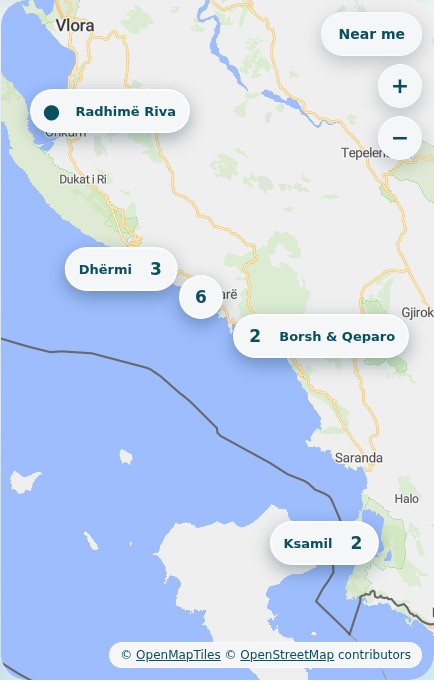
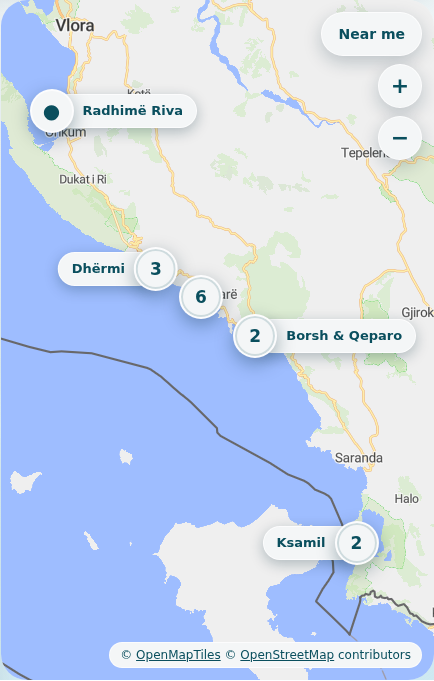
Prototype #1134: give variant D its design pass
The first cut of D wore a plain text tail on the map-chrome disc and a
bare "‹ 1 of 3 here ›" row in the card. This pass designs both surfaces
in the app's own language, and nothing else changes:

- The chip is a coin and a label. The coin sits exactly on the venue in
  the solid map-chrome skin; a crowd's coin wears an inner rim so the
  silhouette reads as a stack before the numeral does. The label is a
  lozenge tucked behind the coin, semibold, and it declutters as before.
  Open, the coin flips to teal and reads `1/3` while the label names the
  venue on show.
- The card's stepper is a glass pill on the card track: the app's own
  dot rail (18 px active pill in the accent ink) between two SVG
  chevrons, a `k / n` count past six, and a polite live region that
  announces each step with the venue's name.

The card now takes 33 % of the phone map with a crowd open (was 35 %);
the README, screenshots and issue comment carry the new numbers.

Claude-Session: https://claude.ai/code/session_01TBM8tZvVi9kUa5d8NNQLEW

diff --git a/frontend/src/app/pages/home/prototype-1134/variant-named-cycle.ts b/frontend/src/app/pages/home/prototype-1134/variant-named-cycle.ts
@@ -37,8 +37,9 @@ export interface CrowdStack {
   readonly nextId: string;
 }
 
-/** The tail's own text metrics at `text-[13px] font-bold`; jsdom has no canvas, so a fallback. */
-const TAIL_PADDING = 14;
+/** The tail past the coin's edge: 8 px of tuck, 13 px of end padding; jsdom has no canvas, so a fallback. */
+const TAIL_PADDING = 21;
+const TAIL_TEXT_MAX = 137;
 const FALLBACK_CHAR_PX = 7.4;
 
 /**
@@ -70,7 +71,7 @@ const FALLBACK_CHAR_PX = 7.4;
         <button
           type="button"
           appTouchTarget
-          class="pointer-events-auto absolute inline-flex h-11 touch-manipulation items-center rounded-full border-2 border-riv-solid-btn-border bg-riv-solid-btn-fill text-riv-solid-btn-ink shadow-[0_6px_18px_rgba(7,42,58,0.35)] aria-expanded:bg-riv-solid-btn-ink aria-expanded:text-riv-solid-btn-fill"
+          class="group pointer-events-auto absolute inline-flex h-11 touch-manipulation items-center rounded-full"
           [class.flex-row-reverse]="slot.chip.tail === 'left'"
           [style.left.px]="slot.chip.cluster.x"
           [style.top.px]="slot.chip.cluster.y"
@@ -79,20 +80,37 @@ const FALLBACK_CHAR_PX = 7.4;
           [attr.aria-expanded]="slot.chip.current !== null"
           (click)="chosen.emit(slot.chip.next.pin.id)"
         >
+          <!-- The coin sits exactly on the venue; a crowd's coin wears a rim, a stack's silhouette. -->
           <span
-            class="inline-flex size-10 shrink-0 items-center justify-center text-[17px] leading-none font-bold tabular-nums"
+            class="relative z-[1] inline-flex size-11 shrink-0 items-center justify-center rounded-full border-2 border-riv-solid-btn-border bg-riv-solid-btn-fill text-riv-solid-btn-ink shadow-[0_6px_18px_rgba(7,42,58,0.35)] group-hover:bg-riv-solid-btn-hover group-aria-expanded:border-riv-solid-btn-fill group-aria-expanded:bg-riv-solid-btn-ink group-aria-expanded:text-riv-solid-btn-fill motion-safe:[transition:background-color_0.15s_ease,color_0.15s_ease]"
+            [class]="
+              slot.chip.cluster.members.length > 1
+                ? 'inset-ring-2 inset-ring-riv-solid-btn-ink/16 group-aria-expanded:inset-ring-riv-solid-btn-fill/25'
+                : ''
+            "
             aria-hidden="true"
           >
-            @if (slot.chip.cluster.members.length > 1) {
-              {{ slot.chip.cluster.members.length }}
+            @if (slot.chip.current !== null) {
+              <span class="text-[13px] leading-none font-bold tabular-nums"
+                >{{ slot.chip.index + 1 }}<span class="opacity-55">/</span
+                >{{ slot.chip.cluster.members.length }}</span
+              >
+            } @else if (slot.chip.cluster.members.length > 1) {
+              <span class="text-[17px] leading-none font-bold tabular-nums">{{
+                slot.chip.cluster.members.length
+              }}</span>
             } @else {
-              <span class="text-[20px]">&#x25cf;</span>
+              <span class="text-[20px] leading-none">&#x25cf;</span>
             }
           </span>
           @if (slot.chip.tail !== 'none') {
             <span
-              class="max-w-[160px] truncate text-[13px] leading-none font-bold"
-              [class]="slot.chip.tail === 'left' ? 'pr-1 pl-3' : 'pr-3 pl-1'"
+              class="h-[34px] max-w-[180px] truncate rounded-full border border-riv-solid-btn-border bg-riv-solid-btn-fill text-[13px] leading-[32px] font-semibold text-riv-solid-btn-ink shadow-[0_4px_14px_rgba(7,42,58,0.28)] group-hover:bg-riv-solid-btn-hover group-aria-expanded:font-bold motion-safe:[transition:background-color_0.15s_ease]"
+              [class]="
+                slot.chip.tail === 'left'
+                  ? '-mr-[22px] pr-[30px] pl-[13px]'
+                  : '-ml-[22px] pr-[13px] pl-[30px]'
+              "
               aria-hidden="true"
               >{{ slot.chip.text }}</span
             >
@@ -102,7 +120,7 @@ const FALLBACK_CHAR_PX = 7.4;
         <button
           type="button"
           appTouchTarget
-          class="pointer-events-none absolute inline-flex size-11 items-center justify-center rounded-full border-2 border-riv-solid-btn-fill bg-riv-solid-btn-ink text-[13px] leading-none font-bold text-riv-solid-btn-fill opacity-0 focus-visible:z-[1] focus-visible:opacity-100"
+          class="pointer-events-none absolute inline-flex size-11 items-center justify-center rounded-full border-2 border-riv-solid-btn-fill bg-riv-solid-btn-ink text-[13px] leading-none font-bold text-riv-solid-btn-fill opacity-0 inset-ring-2 inset-ring-riv-solid-btn-fill/25 focus-visible:z-[2] focus-visible:opacity-100"
           [style.left.px]="slot.chip.cluster.x"
           [style.top.px]="slot.chip.cluster.y"
           [style.translate]="'-50% -50%'"
@@ -265,9 +283,9 @@ function tailWidth(text: string): number {
     measurer = globalThis.document?.createElement('canvas').getContext('2d') ?? null;
     if (measurer) {
       const family = getComputedStyle(document.body).fontFamily || 'sans-serif';
-      measurer.font = `700 13px ${family}`;
+      measurer.font = `600 13px ${family}`;
     }
   }
   const glyphs = measurer ? measurer.measureText(text).width : text.length * FALLBACK_CHAR_PX;
-  return Math.min(160, glyphs) + TAIL_PADDING;
+  return Math.min(TAIL_TEXT_MAX, glyphs) + TAIL_PADDING;
 }

diff --git a/frontend/src/app/pages/home/venue-preview-card.html b/frontend/src/app/pages/home/venue-preview-card.html
@@ -41,30 +41,79 @@
 
     @if (stack(); as stack) {
       <!-- PROTOTYPE, variant D: the other venues at this exact spot, one press each way. -->
-      <p
-        class="-my-[6px] flex items-center gap-1 text-[12.5px] font-semibold text-riv-card-ink"
-        data-testid="preview-stack"
-      >
-        <button
-          type="button"
-          appTouchTarget
-          class="-ml-[12px] inline-flex touch-manipulation items-center justify-center rounded-full text-[24px] leading-none text-riv-card-ink hover:text-riv-accent-ink"
-          [attr.aria-label]="'Previous venue at ' + stack.place"
-          (click)="stepped.emit(stack.prevId)"
+      <div class="-my-[5px] flex items-center" data-testid="preview-stack">
+        <div
+          class="inline-flex h-[32px] items-center rounded-full bg-riv-card-track px-[2px]"
+          role="group"
+          [attr.aria-label]="stack.count + ' venues at ' + stack.place"
         >
-          <span aria-hidden="true">&#x2039;</span>
-        </button>
-        <span class="tabular-nums">{{ stack.index + 1 }} of {{ stack.count }} here</span>
-        <button
-          type="button"
-          appTouchTarget
-          class="inline-flex touch-manipulation items-center justify-center rounded-full text-[24px] leading-none text-riv-card-ink hover:text-riv-accent-ink"
-          [attr.aria-label]="'Next venue at ' + stack.place"
-          (click)="stepped.emit(stack.nextId)"
-        >
-          <span aria-hidden="true">&#x203a;</span>
-        </button>
-      </p>
+          <button
+            type="button"
+            appTouchTarget
+            class="inline-flex touch-manipulation items-center justify-center rounded-full text-riv-card-ink hover:text-riv-accent-ink"
+            [attr.aria-label]="'Previous venue at ' + stack.place"
+            (click)="stepped.emit(stack.prevId)"
+          >
+            <svg
+              aria-hidden="true"
+              width="16"
+              height="16"
+              viewBox="0 0 16 16"
+              fill="none"
+              stroke="currentColor"
+              stroke-width="2.25"
+              stroke-linecap="round"
+              stroke-linejoin="round"
+            >
+              <path d="M10 3 5 8l5 5" />
+            </svg>
+          </button>
+          @if (stackDots().length > 0) {
+            <span class="flex items-center gap-[6px] px-[3px]" aria-hidden="true">
+              @for (dot of stackDots(); track dot) {
+                <span
+                  class="h-[8px] rounded-full [transition:background_0.15s_ease,width_0.15s_ease] motion-reduce:transition-none"
+                  [class]="
+                    dot === stack.index
+                      ? 'w-[18px] bg-riv-accent-ink'
+                      : 'w-[8px] bg-riv-card-ink-soft/35'
+                  "
+                ></span>
+              }
+            </span>
+          } @else {
+            <span
+              class="px-[6px] text-[12.5px] font-semibold text-riv-card-ink tabular-nums"
+              aria-hidden="true"
+              >{{ stack.index + 1 }} / {{ stack.count }}</span
+            >
+          }
+          <button
+            type="button"
+            appTouchTarget
+            class="inline-flex touch-manipulation items-center justify-center rounded-full text-riv-card-ink hover:text-riv-accent-ink"
+            [attr.aria-label]="'Next venue at ' + stack.place"
+            (click)="stepped.emit(stack.nextId)"
+          >
+            <svg
+              aria-hidden="true"
+              width="16"
+              height="16"
+              viewBox="0 0 16 16"
+              fill="none"
+              stroke="currentColor"
+              stroke-width="2.25"
+              stroke-linecap="round"
+              stroke-linejoin="round"
+            >
+              <path d="m6 3 5 5-5 5" />
+            </svg>
+          </button>
+        </div>
+        <output class="sr-only" aria-live="polite" data-testid="preview-stack-position">
+          {{ stack.index + 1 }} of {{ stack.count }} here, {{ card().name }}
+        </output>
+      </div>
     }
 
     <p

diff --git a/frontend/src/app/pages/home/venue-preview-card.ts b/frontend/src/app/pages/home/venue-preview-card.ts
@@ -56,6 +56,12 @@ export class VenuePreviewCard {
   /** PROTOTYPE, variant D: the tourist stepped to this neighbour at the same spot. */
   readonly stepped = output<string>();
 
+  /** PROTOTYPE, variant D: one dot per crowd member while the rail fits; past six, a count. */
+  protected readonly stackDots = computed(() => {
+    const count = this.stack()?.count ?? 0;
+    return count <= 6 ? Array.from({ length: count }, (_unused, at) => at) : [];
+  });
+
   protected readonly headingId = HEADING_ID;
 
   /** The cover alone: a preview is one photo, never the card's whole crossfading stack. */

diff --git a/frontend/src/app/pages/home/prototype-1134/README.md b/frontend/src/app/pages/home/prototype-1134/README.md
@@ -41,15 +41,19 @@ MapLibre tiles itself; the venue list is `crowd-fixture.ts`, so no `/api` call i
 A, B and C occupy _merge_, _defer to a list_ and _displace_. D takes two axes none of them use —
 **the pin itself** and **time**:
 
-- **The pin is a chip, never an anonymous dot.** Alone it carries the venue's name; a crowd carries
-  its beach and the count (`Dhërmi 3`), or both beaches when it spans two (`Borsh & Qeparo`). The map
-  informs before anyone presses. Labels declutter greedily, biggest crowd first: a tail that would run
-  over another pin's disc, an already-placed tail or the map's edge tries the other side, then yields
-  to a bare counted disc. The disc — the control — never moves and never yields.
+- **The pin is a chip, never an anonymous dot.** A coin sits exactly on the venue, in the map
+  chrome's own solid skin, and a label lozenge tucks in behind it: the venue's name when alone, the
+  beach and count when several share the spot (`Dhërmi 3`), or both beaches when the crowd spans two
+  (`Borsh & Qeparo`). A crowd's coin wears an inner rim — a stack's silhouette before the numeral is
+  read. The map informs before anyone presses. Labels declutter greedily, biggest crowd first: a
+  lozenge that would run over another coin, an already-placed lozenge or the map's edge tries the
+  other side, then yields; the coin — the control — never moves and never yields.
 - **A press opens a venue, not a menu.** Pressing a crowd opens the first member's preview at once,
-  the same card a lone pin opens; pressing the chip again walks to the next member (wrapping), and the
-  card carries a `k of n here ‹ ›` stepper doing the same. Nothing on the map moves or merges away,
-  and nothing covers the map beyond the card the page already has.
+  the same card a lone pin opens; the coin flips to teal and reads `1/3`, the lozenge names the venue.
+  Pressing the chip again walks to the next member (wrapping), and the card carries a glass stepper
+  pill — the app's own dot rail between two chevrons, announcing each step politely — doing the
+  same. Nothing on the map moves or merges away, and nothing covers the map beyond the card the page
+  already has.
 - **Keyboard parity is kept, not approximated.** A crowd stays n real buttons in feed order, exactly
   as production draws them: the chip is the current member's button, the others are invisible at the
   same spot until focused. The buttons are tracked by pin, never by crowd, which is what makes them
@@ -140,7 +144,7 @@ an answer.
 
 **D — Named pins, press again.** The strongest at the scale the report is about — a pair or a
 triple: one press opens a venue's full card (photo, rating, price, the funnel link), one more flips
-to the other, the pin said who was there before either press, and the map stays 65 % visible. It is
+to the other, the pin said who was there before either press, and the map stays two-thirds visible. It is
 also the only variant whose controls are the pins themselves, so nothing is rebuilt on a re-group
 and the keyboard walks exactly what it walks today. Its costs are real and they grow with n: choosing
 between five venues means five cards in sequence rather than one list, the preview card carries no
